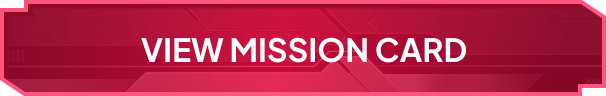
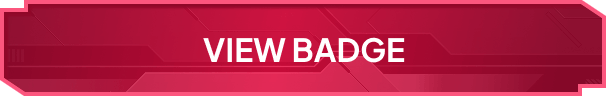
upd mission

Changed region(s): [[0.2079, 0.375, 0.7723, 0.6562]]

diff --git a/app/mission/page.js b/app/mission/page.js
@@ -13,25 +13,85 @@ export default function ARData() {
   const router = useRouter();
   const [nameFix, setNameFix] = useState(null);
   const [imageResultAI, setImageResultAI] = useState(null);
+  const [imageResultAIURL, setImageResultAIURL] = useState(null);
+
+  const [progressMisi, setProgressMisi] = useState(0);
+  const [progressMisiPersen, setProgressMisiPersen] = useState(0);
+  const [statusViewQR, setStatusViewQR] = useState(false);
+  const [statusMisi1, setStatusMisi1] = useState(false);
+  const [statusMisi2, setStatusMisi2] = useState(false);
+  const [statusMisi3, setStatusMisi3] = useState(false);
+  const [statusMisi4, setStatusMisi4] = useState(false);
+  const [statusMisi5, setStatusMisi5] = useState(false);
+
+  const toggleQRView = () => {
+    setStatusViewQR((prevStatus) => !prevStatus);
+  };
 
 
   useEffect(() => {
     // Perform localStorage action
         const item = localStorage.getItem('resulAIBase64')
         const item2 = localStorage.getItem('nameFix')
+        const item3 = localStorage.getItem('faceURLResult')
         setImageResultAI(item)
         setNameFix(item2)
-  }, [imageResultAI, nameFix])
+        setImageResultAIURL(item3)
+
+        const itemMisi1 = localStorage.getItem('mission1')
+        if(itemMisi1 != null && itemMisi1 == 'misi1'){
+          setStatusMisi1(true)
+          setProgressMisi(1)
+          setProgressMisiPersen(20)
+        }
+
+        const itemMisi2 = localStorage.getItem('mission2')
+        if(itemMisi2 != null && itemMisi2 == 'misi2'){
+          setStatusMisi2(true)
+          setProgressMisi(2)
+          setProgressMisiPersen(40)
+        }
+
+        const itemMisi3 = localStorage.getItem('mission3')
+        if(itemMisi3 != null && itemMisi3 == 'misi3'){
+          setStatusMisi3(true)
+          setProgressMisi(3)
+          setProgressMisiPersen(60)
+        }
+
+        const itemMisi4 = localStorage.getItem('mission4')
+        if(itemMisi4 != null && itemMisi4 == 'misi4'){
+          setStatusMisi4(true)
+          setProgressMisi(4)
+          setProgressMisiPersen(80)
+        }
+
+        const itemMisi5 = localStorage.getItem('mission5')
+        if(itemMisi5 != null && itemMisi5 == 'misi5'){
+          setStatusMisi5(true)
+          setProgressMisi(5)
+          setProgressMisiPersen(100)
+        }
+
+  }, [imageResultAI, nameFix, statusMisi1, statusMisi2, statusMisi3, statusMisi4, statusMisi5, progressMisi, progressMisiPersen, imageResultAIURL])
 
   const openMission = (missionId) => {
     console.log(missionId)
-    router.push(`/mission/mission${missionId}`);
+    // router.push(`/mission/mission${missionId}`);
+    toggleQRView()
+  }
+
+  const viewBadge = () => {
+    window.open(imageResultAIURL, '_blank');
   }
 
 
 
   return (
     <div className="flex fixed h-full w-full overflow-auto flex-col items-center justify-centerx py-5 pt-18 pb-10 px-5">
+      <div className={`${statusViewQR ? 'flex' : 'hidden'} fixed h-full w-full overflow-hidden flex-col items-center justify-center z-50 top-[-1rem] bg-[#222]/90`}>
+        <Image src='/scanqr.png' width={343} height={295} alt='Zirolu' className='w-[80%]' priority onClick={toggleQRView} />
+      </div>
       <div className="relative w-full flex justify-center items-center flex-col">
         <div className='relative w-full mx-auto flex justify-center items-center'>
           <Image src='/frame-objective.png' width={335} height={200} alt='Zirolu' className='w-full' priority />
@@ -39,7 +99,7 @@ export default function ARData() {
           <div className="absolute top-0 left-0 w-full p-5 py-8 pt-6">
             <div className='relative w-full flex justify-centerx items-center'>
               {/* <div className="relative overflow-hidden rounded-xl border-4 border-[#014283] w-[50px] mr-2"> */}
-              <div className="relative overflow-hidden rounded-xl border-4 border-[#014283] w-[70px] mr-2">
+              <div className={`relative overflow-hidden rounded-xl border-4 border-[#014283] ${statusMisi1 && statusMisi2 && statusMisi3 && statusMisi4 && statusMisi5 ? 'w-[50px]' : 'w-[70px]'}  mr-2`}>
                 {imageResultAI && 
                   <Image src={imageResultAI}  width={400} height={400} alt='Zirolu' className='relative block w-full'></Image> 
                 }
@@ -51,23 +111,35 @@ export default function ARData() {
             </div>
 
             {/* MISSION ON PROGRESS */}
-            <div className='relative w-full mx-auto flex justify-center items-center mt-2'>
-              <Image src='/mission-info.png' width={303} height={56} alt='Zirolu' className='w-full' priority />
-            </div>
-            <div className='relative w-full mx-auto flex justify-center items-center mt-2'>
-              <div className="relative w-full h-[14px] bg-[#151515] rounded-xl mr-2">
-                <div className="absolute w-[25%] h-[14px] bg-[#014283] rounded-xl"></div>
+            {!statusMisi1 && !statusMisi2 && !statusMisi3 && !statusMisi4 && !statusMisi5 &&
+            <div className="relative w-full">
+              <div className='relative w-full mx-auto flex justify-center items-center mt-2'>
+                <Image src='/mission-info.png' width={303} height={56} alt='Zirolu' className='w-full' priority />
               </div>
-              <p>0/5</p>
+              <div className='relative w-full mx-auto flex justify-center items-center mt-2'>
+                <div className="relative w-full h-[14px] bg-[#151515] rounded-xl mr-2">
+                  <div className={`absolute w-[20%] h-[14px] bg-[#014283] rounded-xl  ${statusMisi1 ? '' : 'opacity-0'}`}></div>
+                  <div className={`absolute w-[40%] h-[14px] bg-[#014283] rounded-xl  ${statusMisi2 ? '' : 'opacity-0'}`}></div>
+                  <div className={`absolute w-[60%] h-[14px] bg-[#014283] rounded-xl  ${statusMisi3 ? '' : 'opacity-0'}`}></div>
+                  <div className={`absolute w-[80%] h-[14px] bg-[#014283] rounded-xl  ${statusMisi4 ? '' : 'opacity-0'}`}></div>
+                  <div className={`absolute w-[100%] h-[14px] bg-[#014283] rounded-xl  ${statusMisi5 ? '' : 'opacity-0'}`}></div>
+                </div>
+                <p>{progressMisi}/5</p>
+              </div>
             </div>
+            }
 
             {/* MISSION DONE */}
-            {/* <div className='relative w-full mx-auto flex justify-center items-center mt-2'>
-              <Image src='/mission-info-done.png' width={303} height={56} alt='Zirolu' className='w-full' priority />
+            {statusMisi1 && statusMisi2 && statusMisi3 && statusMisi4 && statusMisi5 &&
+            <div className="relative w-full">
+              <div className='relative w-full mx-auto flex justify-center items-center mt-2'>
+                <Image src='/mission-info-done.png' width={303} height={56} alt='Zirolu' className='w-full' priority />
+              </div>
+              <button className={`relative w-[full] mx-auto flex justify-center items-center mt-2`} onClick={() => viewBadge()}>
+                <Image src='/btn-missioncard.png' width={303} height={48} alt='Zirolu' className='w-full' priority />
+              </button>
             </div>
-            <button className={`relative w-full mx-auto flex justify-center items-center mt-2`}>
-              <Image src='/btn-missioncard.png' width={303} height={48} alt='Zirolu' className='w-full' priority />
-            </button> */}
+            }
           </div>
         </div>
 
@@ -79,11 +151,19 @@ export default function ARData() {
               <Image src='/mission-title-space.png' width={298} height={44} alt='Zirolu' className='w-full' priority />
             </div>
             <div className='relative w-full mx-auto flex justify-center items-center mt-2'>
-              <button className={`relative w-full mx-auto flex justify-center items-center mr-1`}>
+              <button className={`relative w-full mx-auto flex justify-center items-center mr-1`} onClick={() => openMission(1)}>
                 <Image src='/mission-1.png' width={145} height={250} alt='Zirolu' className='w-full' priority />
+
+                <div className={`absolute top-0 left-0 w-[100px] mx-auto flex justify-center items-center ${statusMisi1 ? '' : 'opacity-0'}`}>
+                  <Image src='/completed.png' width={175} height={58} alt='Zirolu' className='w-full' priority />
+                </div>
               </button>
               <button className={`relative w-full mx-auto flex justify-center items-center ml-1`} onClick={() => openMission(2)}>
                 <Image src='/mission-2.png' width={145} height={250} alt='Zirolu' className='w-full' priority />
+
+                  <div className={`absolute top-0 left-0 w-[100px] mx-auto flex justify-center items-center ${statusMisi2 ? '' : 'opacity-0'}`}>
+                    <Image src='/completed.png' width={175} height={58} alt='Zirolu' className='w-full' priority />
+                  </div>
               </button>
             </div>
           </div>

diff --git a/app/components/SwiperComponent.js b/app/components/SwiperComponent.js
@@ -1,7 +1,9 @@
 "use client";
+import React,{ useEffect, useState, useRef } from 'react';
 import Image from 'next/image';
 import { Swiper, SwiperSlide } from "swiper/react";
 import { Navigation, Pagination, Autoplay } from "swiper/modules";
+import { useRouter } from 'next/navigation';
 
 // Import Swiper styles
 import "swiper/css";
@@ -9,8 +11,49 @@ import "swiper/css/navigation";
 import "swiper/css/pagination";
 
 export default function SwiperComponent() {
+    const router = useRouter();
+
+    const [statusMisi3, setStatusMisi3] = useState(false);
+    const [statusMisi4, setStatusMisi4] = useState(false);
+    const [statusMisi5, setStatusMisi5] = useState(false);
+
+    const [statusViewQR, setStatusViewQR] = useState(false);
+
+
+    useEffect(() => {
+      // Perform localStorage action
+          const itemMisi3 = localStorage.getItem('mission3')
+          if(itemMisi3 != null && itemMisi3 == 'misi3'){
+            setStatusMisi3(true)
+          }
+  
+          const itemMisi4 = localStorage.getItem('mission4')
+          if(itemMisi4 != null && itemMisi4 == 'misi4'){
+            setStatusMisi4(true)
+          }
+  
+          const itemMisi5 = localStorage.getItem('mission5')
+          if(itemMisi5 != null && itemMisi5 == 'misi5'){
+            setStatusMisi5(true)
+          }
+  
+    }, [statusMisi3, statusMisi4, statusMisi5])
+
+    const toggleQRView = () => {
+        setStatusViewQR((prevStatus) => !prevStatus);
+    };
+    const openMission = (missionId) => {
+      console.log(missionId)
+    //   router.push(`/mission/mission${missionId}`);
+        toggleQRView()
+    }
+
   return (
     <div className='relative w-full'>
+        <div className={`${statusViewQR ? 'flex' : 'hidden'}  fixed h-full w-full overflow-hidden flex-col items-center justify-center z-50 top-[-1rem] left-0 bg-[#222]/90`}>
+            <Image src='/scanqr.png' width={343} height={295} alt='Zirolu' className='w-[80%]' priority onClick={toggleQRView} />
+        </div>
+
         <Swiper
         modules={[Navigation, Pagination, Autoplay]}
         spaceBetween={6}
@@ -20,18 +63,30 @@ export default function SwiperComponent() {
         className="w-full"
         >
             <SwiperSlide className="flex justify-center items-center !w-[42%]">
-                <button className={`relative w-full mx-auto flex justify-center items-center`}>
+                <button className={`relative w-full mx-auto flex justify-center items-center`} onClick={() => openMission(3)}>
                     <Image src='/mission-3.png' width={145} height={250} alt='Zirolu' className='w-full' priority />
+                    
+                    <div className={`absolute top-0 left-0 w-[100px] mx-auto flex justify-center items-center ${statusMisi3 ? '' : 'opacity-0'}`}>
+                        <Image src='/completed.png' width={175} height={58} alt='Zirolu' className='w-full' priority />
+                    </div>
                 </button>
             </SwiperSlide>
             <SwiperSlide className="flex justify-center items-center !w-[42%]">
-                <button className={`relative w-full mx-auto flex justify-center items-center`}>
+                <button className={`relative w-full mx-auto flex justify-center items-center`} onClick={() => openMission(4)}>
                     <Image src='/mission-4.png' width={145} height={250} alt='Zirolu' className='w-full' priority />
+                    
+                    <div className={`absolute top-0 left-0 w-[100px] mx-auto flex justify-center items-center ${statusMisi4 ? '' : 'opacity-0'}`}>
+                        <Image src='/completed.png' width={175} height={58} alt='Zirolu' className='w-full' priority />
+                    </div>
                 </button>
             </SwiperSlide>
             <SwiperSlide className="flex justify-center items-center !w-[42%]">
-                <button className={`relative w-full mx-auto flex justify-center items-center`}>
+                <button className={`relative w-full mx-auto flex justify-center items-center`} onClick={() => openMission(5)}>
                     <Image src='/mission-5.png' width={145} height={250} alt='Zirolu' className='w-full' priority />
+                    
+                    <div className={`absolute top-0 left-0 w-[100px] mx-auto flex justify-center items-center ${statusMisi5 ? '' : 'opacity-0'}`}>
+                        <Image src='/completed.png' width={175} height={58} alt='Zirolu' className='w-full' priority />
+                    </div>
                 </button>
             </SwiperSlide>
         </Swiper>

diff --git a/app/cam/page.js b/app/cam/page.js
@@ -366,7 +366,7 @@ export default function Cam() {
                     
                         {numProses1 && 
                         <div className={`relative w-[90%]`}>
-                            <div className='animate-upDownCepet relative flex justify-center items-center flex-col py-2 lg:py-6 px-2 mt-2 text-xs border-2 text-left bg-[#EF000F] rounded-xl text-[#fff] font-bold bg-black/80 p-7 rounded-sm'>
+                            <div className='animate-upDownCepet relative flex justify-center items-center flex-col py-2 lg:py-6 px-2 mt-2 text-xs border-2 text-left bg-[#014283] rounded-xl text-[#fff] font-bold bg-black/80 p-7 rounded-sm'>
                                 <div className='flex justify-center items-center w-full'>
                                     <Image src='/icon-info.png' width={40} height={40} alt='Zirolu' className='w-[20px] mr-2' priority />
                                     <p>{`Your mission and spaceship are being prepared. GET READY TO LAUNCH!`}</p>
